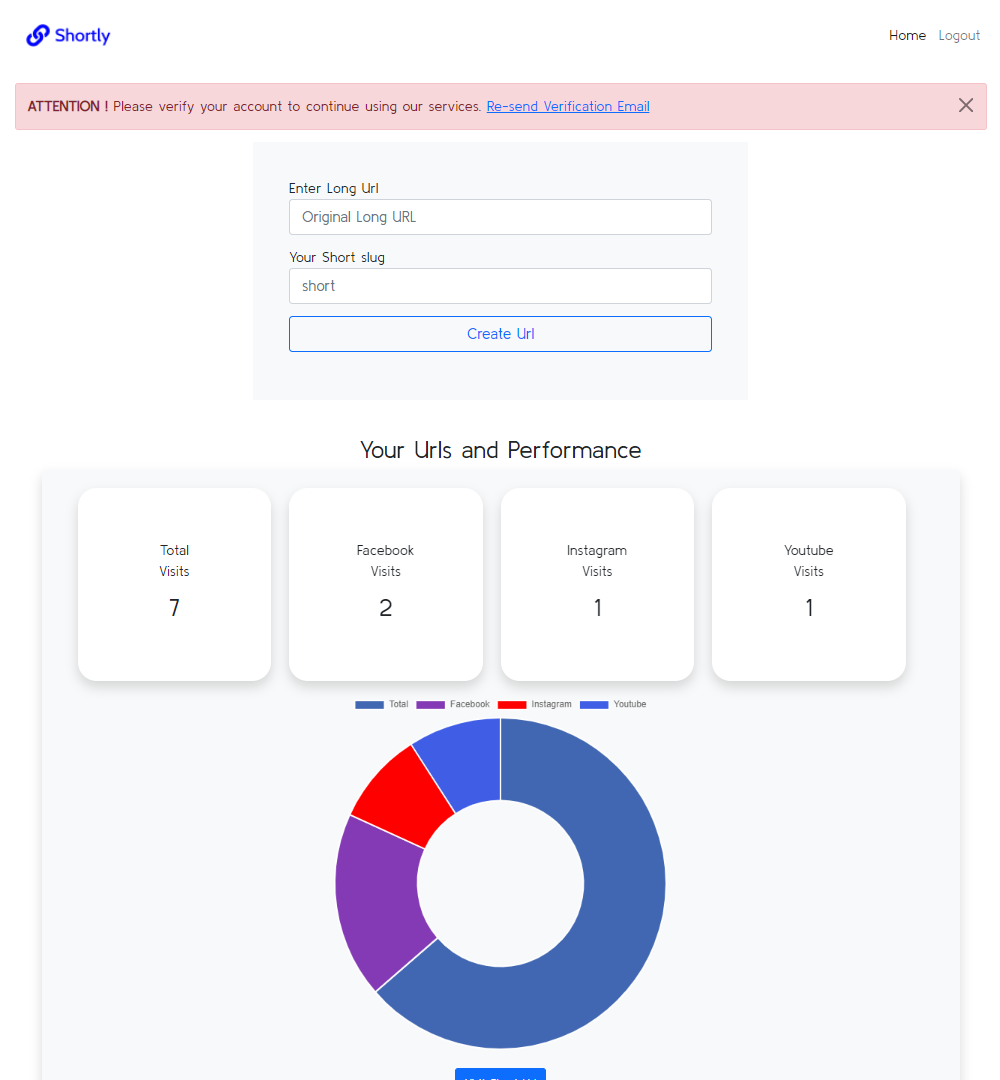
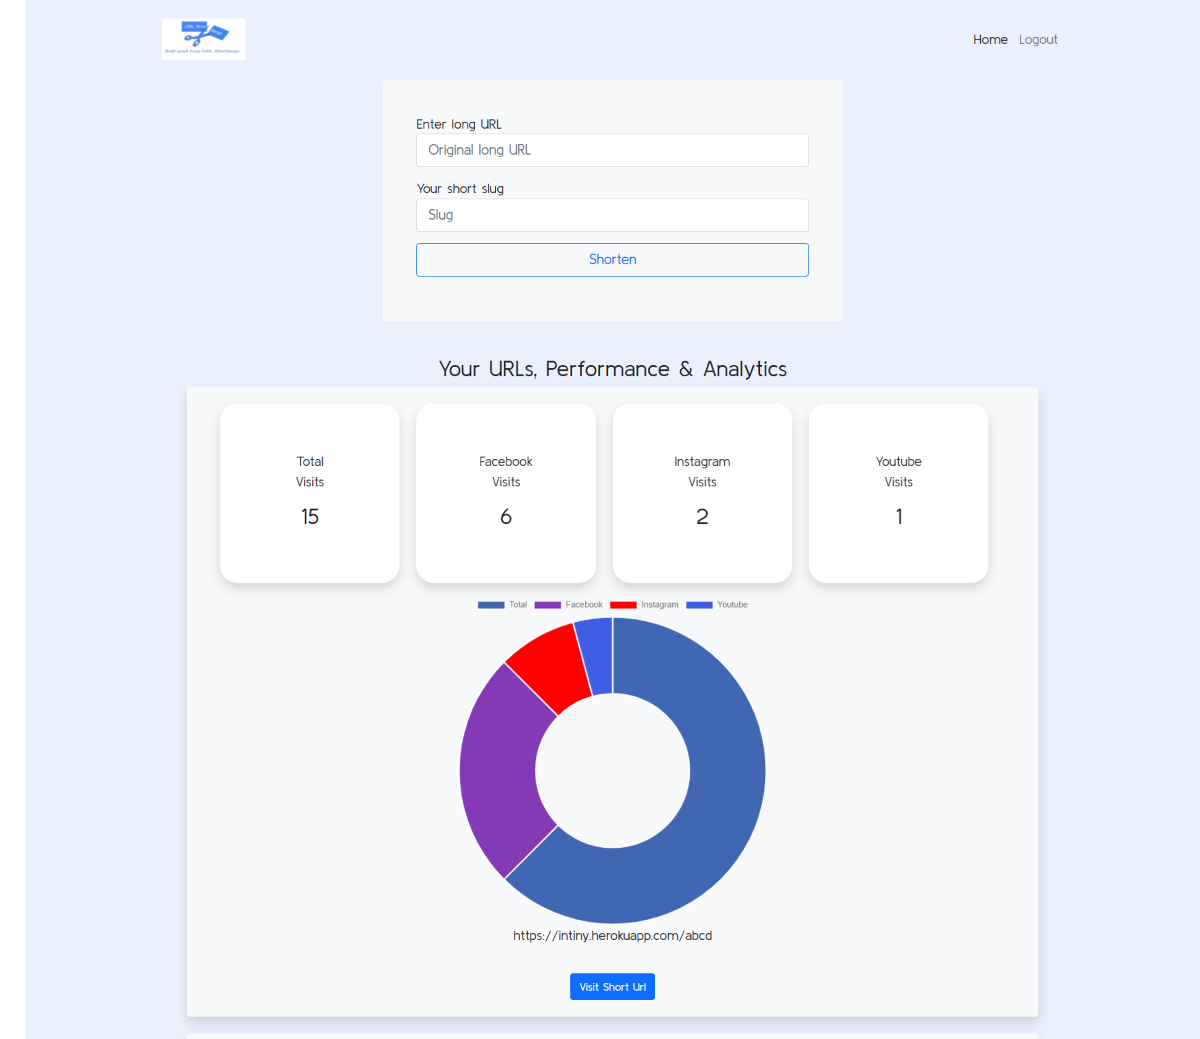
added screenshot

diff --git a/README.md b/README.md
@@ -1,12 +1,6 @@
-# Shortly - A Short Url Service In Node JS With Data Visualization
+# Intiny - A Short Url Service In Node JS With Data Visualization
 
 This repo contains code for a Short URl Service Coded In NODE JS !
-
-## Tutorial (Shortly) : [Here](https://youtu.be/zuXQH-PDWuY)
-
-## Tutorial (Local Auth) : [Here](https://www.youtube.com/watch?v=-ZxXS9gsWX4)
-
-## Tutorial (Google Auth) : [Here](https://www.youtube.com/watch?v=d-IToO3gLrM)
 
 ## 1. USAGE
 
@@ -23,11 +17,10 @@ npm install -D nodemon
 ```
 
 ### Add mongoURI ,Google client ID and Secret, smtp config for sending emails 
-### And Feel free to delete the screenshots directory
 
 # Added Options
 
-![Image1](screenshots/shortly_main_page.png)
+![Image1](screenshots/intiny_main_page.png)
 ![Image2](screenshots/dashboard.png)
 
 
